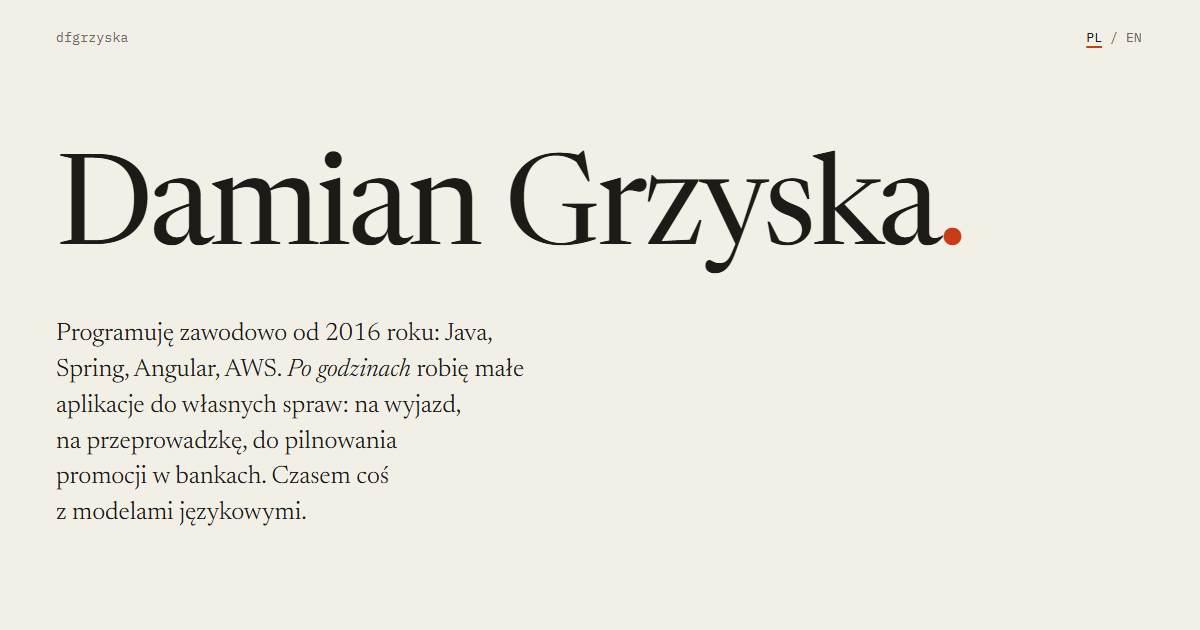
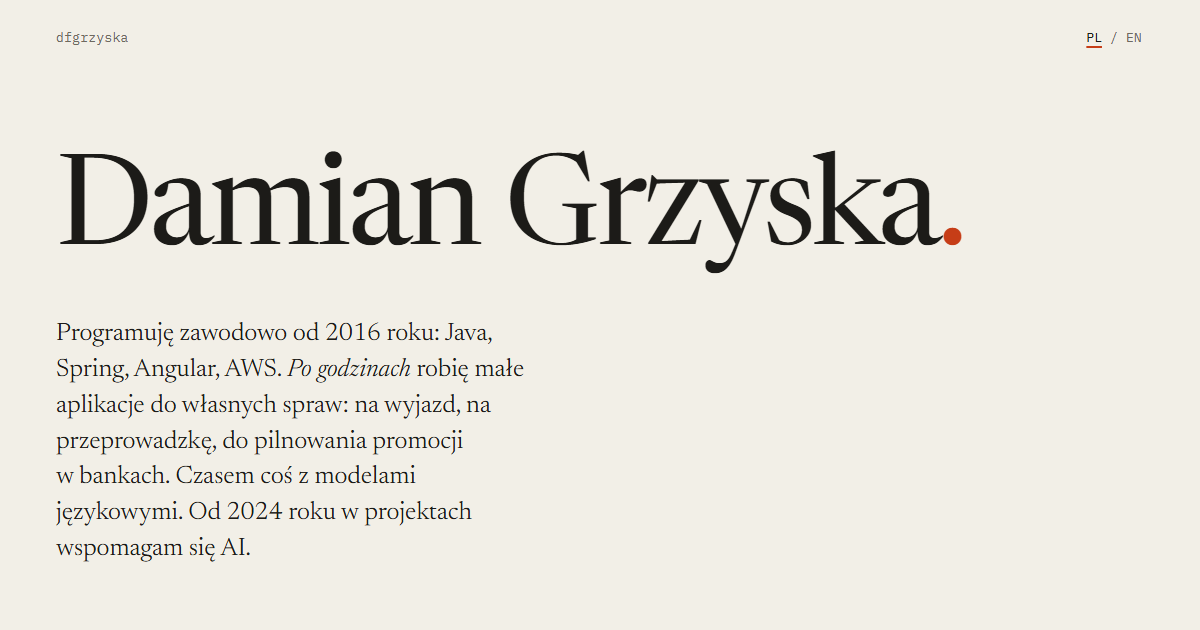
Say that I've used AI in my projects since 2024

Changed region(s): [[0.0308, 0.6937, 0.4008, 0.9048], [0.37, 0.6333, 0.4008, 0.6635]]

diff --git a/index.html b/index.html
@@ -341,8 +341,8 @@
 <main>
   <section class="wrap intro">
     <h1>Damian Grzyska<span class="stop">.</span></h1>
-    <p class="lede" lang="pl">Programuję zawodowo od 2016 roku: Java, Spring, Angular, AWS. <em>Po godzinach</em> robię małe aplikacje do własnych spraw: na wyjazd, na przeprowadzkę, do pilnowania promocji w&nbsp;bankach. Czasem coś z&nbsp;modelami językowymi.</p>
-    <p class="lede" lang="en">I've written software for a living since 2016: Java, Spring, Angular, AWS. <em>After hours</em> I make small apps for my own errands: a trip, a move, keeping track of bank promotions. Sometimes something with language models.</p>
+    <p class="lede" lang="pl">Programuję zawodowo od 2016 roku: Java, Spring, Angular, AWS. <em>Po godzinach</em> robię małe aplikacje do własnych spraw: na wyjazd, na przeprowadzkę, do pilnowania promocji w&nbsp;bankach. Czasem coś z&nbsp;modelami językowymi. Od 2024 roku w&nbsp;projektach wspomagam się AI.</p>
+    <p class="lede" lang="en">I've written software for a living since 2016: Java, Spring, Angular, AWS. <em>After hours</em> I make small apps for my own errands: a trip, a move, keeping track of bank promotions. Sometimes something with language models. Since 2024 I've been using AI to help with my projects.</p>
   </section>
 
   <section class="wrap work" aria-labelledby="work-title">
